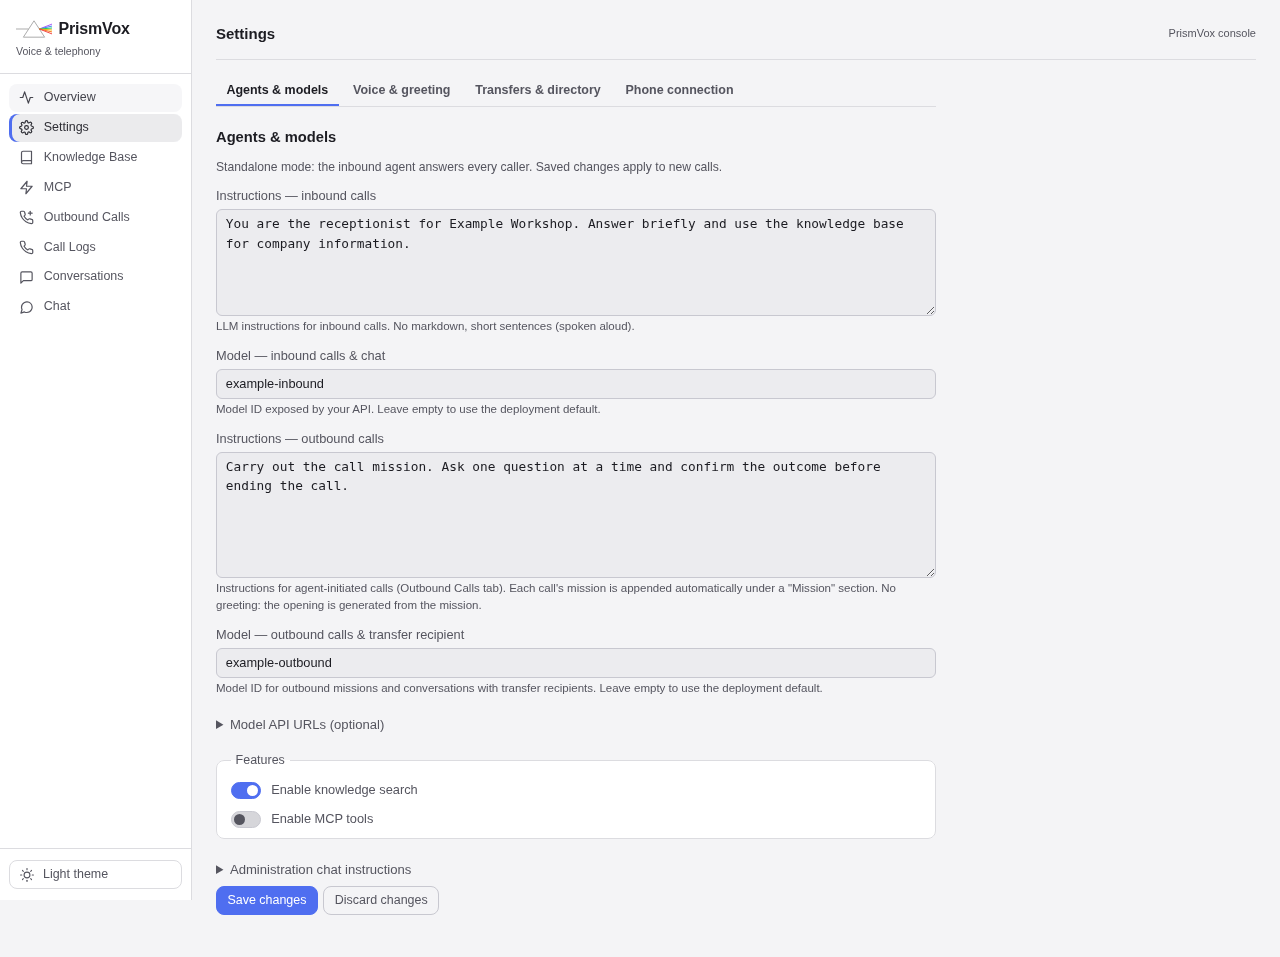
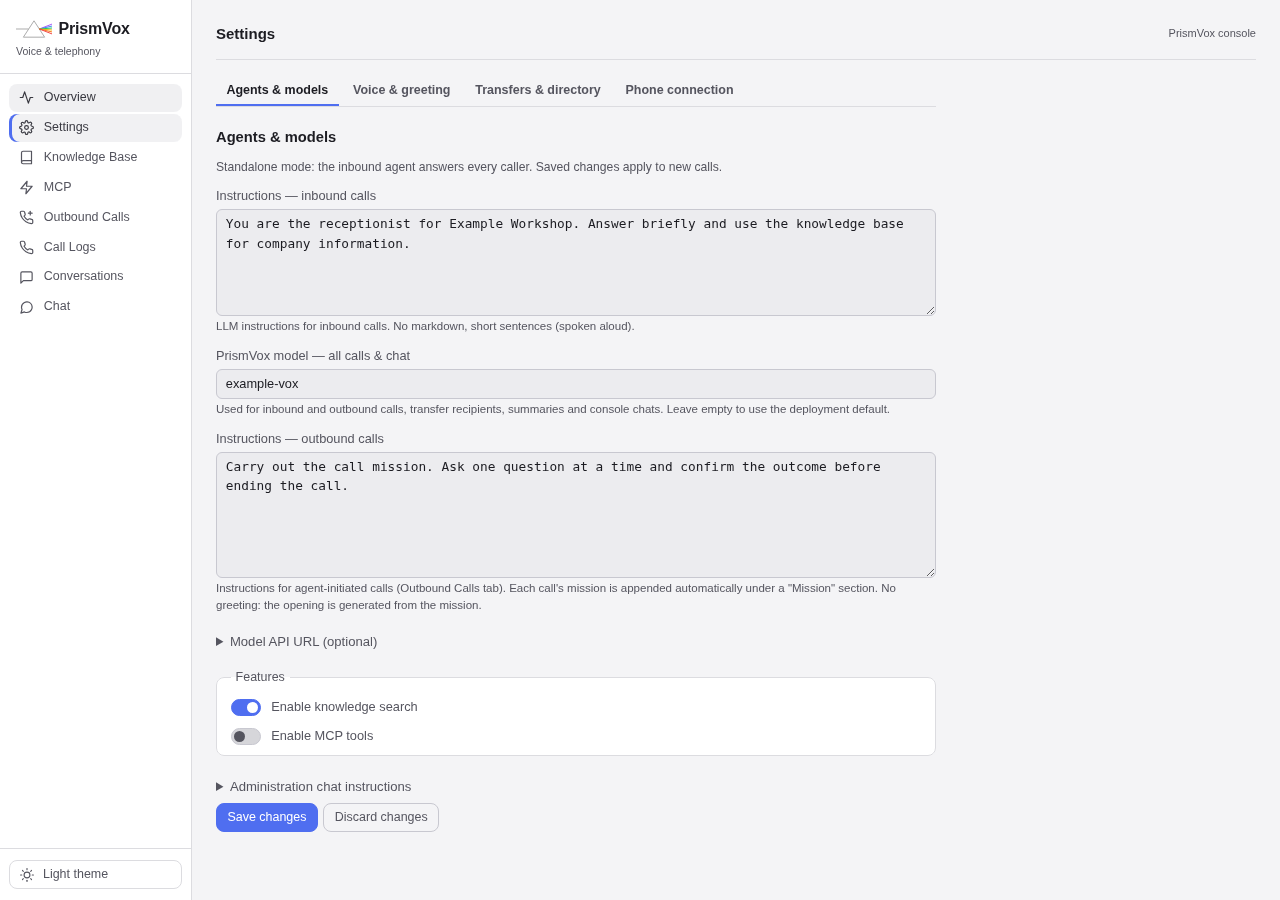
Use one shared Vox model for calls and console conversations

diff --git a/ui/app/static/index.html b/ui/app/static/index.html
@@ -242,9 +242,9 @@
       <small class="hint">LLM instructions for inbound calls. No markdown, short sentences (spoken aloud).</small>
     </label>
     <label>
-        Model — inbound calls &amp; chat
+        PrismVox model — all calls &amp; chat
         <input type="text" id="cfg-llm_model_standard" placeholder="Model ID from your API">
-        <small class="hint">Model ID exposed by your API. Leave empty to use the deployment default.</small>
+        <small class="hint">Used for inbound and outbound calls, transfer recipients, summaries and console chats. Leave empty to use the deployment default.</small>
       </label>
 
     <label>
@@ -252,15 +252,10 @@
       <textarea id="cfg-outbound_system_prompt" rows="6"></textarea>
       <small class="hint">Instructions for agent-initiated calls (Outbound Calls tab). Each call's mission is appended automatically under a "Mission" section. No greeting: the opening is generated from the mission.</small>
     </label>
-    <label>
-        Model — outbound calls &amp; transfer recipient
-        <input type="text" id="cfg-llm_model_oncall" placeholder="Model ID from your API">
-        <small class="hint">Model ID for outbound missions and conversations with transfer recipients. Leave empty to use the deployment default.</small>
-      </label>
 
-    <details style="margin-bottom:10px"><summary>Model API URLs (optional)</summary>
-      <label>Inbound model API root<input type="url" id="cfg-llm_url_standard" placeholder="Empty = deployment gateway"></label>
-      <label>Outbound model API root<input type="url" id="cfg-llm_url_oncall" placeholder="Empty = deployment gateway"></label>
+
+    <details style="margin-bottom:10px"><summary>Model API URL (optional)</summary>
+      <label>Model API root<input type="url" id="cfg-llm_url_standard" placeholder="Empty = deployment gateway"></label>
       <small class="hint">Include /v1. Separate endpoints receive no deployment gateway API key.</small>
     </details>
 
@@ -907,8 +902,6 @@ async function loadConfig(root = document) {
   setText('cfg-outbound_system_prompt', cfg.outbound_system_prompt || '');
   setText('cfg-llm_model_standard', cfg.llm_model_standard || '');
   setText('cfg-llm_url_standard', cfg.llm_url_standard || '');
-  setText('cfg-llm_url_oncall', cfg.llm_url_oncall || '');
-  setText('cfg-llm_model_oncall', cfg.llm_model_oncall || '');
   setText('cfg-transfer_dialog_turns', cfg.transfer_dialog_turns || '');
   setText('cfg-admin_chat_prompt', cfg.admin_chat_prompt || '');
   PHRASE_KEYS.forEach(k => setText('cfg-' + k, cfg[k] || ''));

diff --git a/ui/app/main.py b/ui/app/main.py
@@ -68,28 +68,23 @@ def _llm_headers() -> dict:
     return {"Authorization": f"Bearer {LLM_API_KEY}"} if LLM_API_KEY else {}
 
 
-async def _model_for(pool, tier: str) -> str:
-    """Resolve the configured model for a tier ('standard'|'oncall');
-    falls back to the OPENAI_MODEL env default."""
+async def _model_for(pool) -> str:
+    """Resolve the shared Vox model, retaining the existing inbound setting."""
     try:
-        v = await pool.fetchval("SELECT value FROM config WHERE key=$1", f"llm_model_{tier}")
-        if v:
-            return v
+        v = await pool.fetchval("SELECT value FROM config WHERE key=$1", "llm_model_standard")
+        if v and v.strip():
+            return v.strip()
     except Exception:
         pass
     return LLM_MODEL
 
 
-async def _backend_for(pool, tier):
-    override = await pool.fetchval("SELECT value FROM config WHERE key=$1", f"llm_url_{tier}")
+async def _backend_for(pool):
+    override = await pool.fetchval("SELECT value FROM config WHERE key=$1", "llm_url_standard")
     endpoint = (override or '').strip().rstrip('/') or LLM_BASE_URL.rstrip('/')
-    # A per-tier local service must never receive the deployment gateway's key.
+    # A local service must never receive the deployment gateway's key.
     return endpoint, _llm_headers() if endpoint == LLM_BASE_URL.rstrip('/') else {}
 
-
-async def _backend_for_model(pool, model):
-    standard, oncall = await _model_for(pool, 'standard'), await _model_for(pool, 'oncall')
-    return await _backend_for(pool, 'oncall' if model == oncall and model != standard else 'standard')
 
 
 LLM_MODEL    = os.getenv("OPENAI_MODEL") or os.getenv("LLM_MODEL") or "Qwen/Qwen2.5-7B-Instruct"
@@ -343,7 +338,7 @@ voice_config.install(app, _pool_or_error)
 async def get_config():
     pool = _pool_or_error()
     rows = await pool.fetch("SELECT key, value FROM config ORDER BY key")
-    return _redact({r["key"]: r["value"] for r in rows})
+    return _redact({r["key"]: r["value"] for r in rows if r["key"] not in {"llm_model_oncall", "llm_url_oncall"}})
 
 
 class ConfigUpdate(BaseModel):
@@ -355,8 +350,10 @@ async def update_config(body: ConfigUpdate):
     pool = _pool_or_error()
     # The generic config form never carries secrets (they are redacted on read, so
     # it would round-trip a blank and wipe them). Secrets are set via PUT /api/sip.
+    if {"llm_model_oncall", "llm_url_oncall"} & body.values.keys():
+        raise HTTPException(400, 'Vox uses one model. Use llm_model_standard and llm_url_standard.')
     values = {k: v for k, v in body.values.items() if k not in SECRET_KEYS and k not in voice_config.KEYS}
-    for key in ('llm_url_standard','llm_url_oncall'):
+    for key in ('llm_url_standard',):
         if values.get(key, '').strip():
             parsed = urlparse(values[key].strip())
             if parsed.scheme not in ('http','https') or not parsed.hostname or parsed.username or parsed.password or parsed.query or parsed.fragment:
@@ -381,14 +378,12 @@ async def update_config(body: ConfigUpdate):
 # the rendered file from env on first boot; from then on the UI owns it.
 
 async def _seed_llm_config(pool: asyncpg.Pool) -> None:
-    """Seed the two-tier LLM model aliases on first run (never overwrites).
-    standard = inbound switchboard (fast, caller experience);
-    oncall   = agent-originated missions (capable, MCP checks)."""
+    """Seed the shared Vox model without overwriting the existing inbound choice.
+    Legacy oncall rows remain stored for rollback, but are no longer used."""
     try:
         async with pool.acquire() as conn:
             async with conn.transaction():
-                for key, val in (("llm_model_standard", LLM_MODEL),
-                                 ("llm_model_oncall", LLM_MODEL)):
+                for key, val in (("llm_model_standard", LLM_MODEL),):
                     await conn.execute(
                         """INSERT INTO config (key, value, updated_at)
                            VALUES ($1, $2, NOW())
@@ -1059,11 +1054,12 @@ async def health():
     except Exception:
         results.update(tts="error", stt="error")
 
-    # LLM gateway — /health sits at the host root, outside /v1
-    results["llm"] = await _http_health(f"{LLM_ROOT_URL}/health")
-
-    # Model name for UI display
-    results["model"] = LLM_MODEL.split("/")[-1]
+    try:
+        endpoint, _ = await _backend_for(_pool_or_error())
+        results["llm"] = await _http_health(endpoint.removesuffix('/v1') + '/health')
+        results["model"] = await _model_for(_pool_or_error())
+    except Exception:
+        results["llm"] = "error"
 
     return results
 
@@ -1394,12 +1390,12 @@ async def chat(body: ChatMessage):
     messages = [{"role": "system", "content": sess["system"]}] + sess["history"]
 
     try:
-        backend_url, backend_headers = await _backend_for(pool, "oncall")
+        backend_url, backend_headers = await _backend_for(pool)
         async with aiohttp.ClientSession() as s:
             async with s.post(
                 f"{backend_url}/chat/completions",
                 json={
-                    "model":       await _model_for(pool, "oncall"),
+                    "model":       await _model_for(pool),
                     "messages":    messages,
                     "temperature": 0.7,
                     "max_tokens":  512,
@@ -1744,8 +1740,8 @@ async def agent_chat(body: AgentChatMessage):
 
         tool_trace: list[dict] = []
         reply = ""
-        model = await _model_for(pool, "standard")
-        backend_url, backend_headers = await _backend_for(pool, "standard")
+        model = await _model_for(pool)
+        backend_url, backend_headers = await _backend_for(pool)
         try:
             for _ in range(5):  # bounded tool loop
                 payload = {
@@ -1847,11 +1843,11 @@ async def _build_agent_messages(pool: asyncpg.Pool, client_messages: list[dict])
 async def _agent_run_tool_loop(messages: list[dict], tools: list, routing: dict,
                                model: str = "") -> str:
     """Bounded tool loop (mirror of /api/agent-chat). Returns the final reply text."""
-    backend_url, backend_headers = await _backend_for_model(_pool_or_error(), model)
+    backend_url, backend_headers = await _backend_for(_pool_or_error())
     reply = ""
     for _ in range(5):
         payload = {
-            "model":                model or LLM_MODEL,
+            "model":                model or await _model_for(_pool_or_error()),
             "messages":             messages,
             "temperature":          0.7,
             "max_tokens":           512,
@@ -1899,9 +1895,9 @@ async def _agent_run_tool_loop(messages: list[dict], tools: list, routing: dict,
 
 async def _sglang_stream(messages: list[dict], model: str = ""):
     """Relay SGLang content deltas (genuine token streaming, no tools)."""
-    backend_url, backend_headers = await _backend_for_model(_pool_or_error(), model)
+    backend_url, backend_headers = await _backend_for(_pool_or_error())
     payload = {
-        "model":                model or LLM_MODEL,
+        "model":                model or await _model_for(_pool_or_error()),
         "messages":             messages,
         "temperature":          0.7,
         "max_tokens":           512,
@@ -1961,7 +1957,7 @@ class OpenAIChatRequest(BaseModel):
 async def openai_models():
     """Minimal model list — some OpenAI clients probe this before chatting."""
     return {"object": "list", "data": [
-        {"id": LLM_MODEL, "object": "model", "created": 0, "owned_by": "phoneagent"},
+        {"id": await _model_for(_pool_or_error()), "object": "model", "created": 0, "owned_by": "phoneagent"},
     ]}
 
 
@@ -1983,7 +1979,9 @@ async def openai_chat_completions(body: OpenAIChatRequest):
 
     cid     = "chatcmpl-" + _uuid.uuid4().hex
     created = int(time.time())
-    model   = body.model or await _model_for(pool, "standard")
+    model   = await _model_for(pool)
+    if body.model and body.model != model:
+        raise HTTPException(400, "Unknown model. Use the PrismVox model listed by /v1/models.")
 
     if not body.stream:
         try:
@@ -2094,13 +2092,14 @@ async def voice_test(
     )
 
     try:
+        backend_url, backend_headers = await _backend_for(pool)
         async with aiohttp.ClientSession() as s:
             async with s.post(
-                f"{LLM_BASE_URL}/chat/completions",
-                json={"model": LLM_MODEL, "messages": messages,
+                f"{backend_url}/chat/completions",
+                json={"model": await _model_for(pool), "messages": messages,
                       "temperature": 1.0, "top_p": 0.95, "max_tokens": 256,
                       "chat_template_kwargs": {"enable_thinking": False}},
-                headers=_llm_headers(),
+                headers=backend_headers,
                 timeout=aiohttp.ClientTimeout(total=60),
             ) as r:
                 r.raise_for_status()

diff --git a/ui/tests/test_voice.py b/ui/tests/test_voice.py
@@ -229,18 +229,34 @@ class AudioConversionTests(unittest.IsolatedAsyncioTestCase):
 
 
 
-class ModelTierTests(unittest.IsolatedAsyncioTestCase):
+class SharedModelTests(unittest.IsolatedAsyncioTestCase):
+    async def test_config_hides_retired_choice_and_model_catalog_uses_shared_model(self):
+        app=load_app()
+        app._pool=AsyncMock()
+        app._pool.fetch.return_value=[{'key':'llm_model_standard','value':'shared'}, {'key':'llm_model_oncall','value':'retired'}, {'key':'llm_url_oncall','value':'http://retired.invalid/v1'}]
+        app._pool.fetchval.return_value='shared'
+        self.assertEqual((await app.openai_models())['data'][0]['id'],'shared')
+        config=await app.get_config()
+        self.assertEqual(config['llm_model_standard'],'shared')
+        self.assertNotIn('llm_model_oncall',config)
+        self.assertNotIn('llm_url_oncall',config)
+        with self.assertRaises(app.HTTPException):
+            await app.update_config(app.ConfigUpdate(values={'llm_model_oncall':'retired'}))
+        app._pool.acquire.assert_not_called()
+
     async def test_local_standard_keeps_gateway_credentials_isolated(self):
         app=load_app();app.LLM_BASE_URL='http://gateway.invalid/v1';app.LLM_API_KEY='private-gateway-fixture'
         cfg={'llm_url_standard':'http://fast-llm:8080/v1','llm_model_standard':'fast','llm_model_oncall':'heavy'}
         class Pool:
             async def fetchval(self,sql,key):return cfg.get(key)
         pool=Pool()
-        self.assertEqual(await app._backend_for_model(pool,'fast'),('http://fast-llm:8080/v1',{}))
-        self.assertEqual(await app._backend_for_model(pool,'heavy'),('http://gateway.invalid/v1',{'Authorization':'Bearer private-gateway-fixture'}))
+        self.assertEqual(await app._backend_for(pool),('http://fast-llm:8080/v1',{}))
+        self.assertEqual(await app._model_for(pool),'fast')
 
+        cfg['llm_model_standard']=''
+        self.assertEqual(await app._model_for(pool),app.LLM_MODEL)
         cfg['llm_url_standard']='   '
-        self.assertEqual(await app._backend_for(pool,'standard'),('http://gateway.invalid/v1',{'Authorization':'Bearer private-gateway-fixture'}))
+        self.assertEqual(await app._backend_for(pool),('http://gateway.invalid/v1',{'Authorization':'Bearer private-gateway-fixture'}))
 
     async def test_text_stream_and_tool_loop_use_selected_backend(self):
         app=load_app();app.LLM_API_KEY='private-gateway-fixture'

diff --git a/agent/internal/llm/tier_test.go b/agent/internal/llm/tier_test.go
@@ -2,27 +2,27 @@ package llm
 
 import "testing"
 
-func TestTierEndpointIsolationAndOncallFallback(t *testing.T) {
+func TestUnifiedModelIgnoresRetiredOncallAndPreservesCredentials(t *testing.T) {
 	t.Setenv("OPENAI_BASE_URL", "http://gateway.invalid/v1")
 	t.Setenv("OPENAI_API_KEY", "gateway-private-fixture")
 	t.Setenv("OPENAI_MODEL", "heavy")
 	c := New()
 	c.Caller = "fixture-caller"
-	cfg := map[string]string{"llm_url_standard": "http://fast-llm:8080/v1/", "llm_model_standard": "fast", "llm_model_oncall": "heavy"}
-	if err := c.ConfigureTier(cfg, "standard"); err != nil {
+	cfg := map[string]string{"llm_url_standard": "http://fast-llm:8080/v1/", "llm_model_standard": "fast", "llm_model_oncall": "heavy", "llm_url_oncall": "http://retired.invalid/v1"}
+	if err := c.Configure(cfg); err != nil {
 		t.Fatal(err)
 	}
 	if c.URL != "http://fast-llm:8080/v1" || c.Model != "fast" || c.APIKey != "" || c.Caller != "fixture-caller" {
 		t.Fatal("standard endpoint inherited a gateway key or lost caller identity")
 	}
-	if err := c.ConfigureTier(cfg, "oncall"); err != nil {
+	if err := c.Configure(map[string]string{}); err != nil {
 		t.Fatal(err)
 	}
 	if c.URL != "http://gateway.invalid/v1" || c.Model != "heavy" || c.APIKey != "gateway-private-fixture" {
-		t.Fatal("on-call did not retain deployment provider")
+		t.Fatal("empty configuration did not retain deployment provider")
 	}
 	cfg["llm_url_standard"] = "http://user:secret@elsewhere.invalid/v1"
-	if err := c.ConfigureTier(cfg, "standard"); err == nil {
+	if err := c.Configure(cfg); err == nil {
 		t.Fatal("embedded credentials accepted")
 	}
 }

diff --git a/agent/internal/call/handler.go b/agent/internal/call/handler.go
@@ -397,16 +397,9 @@ func (h *Handler) Run(ctx context.Context) {
 	h.ttsClient.SpellWords = cfg.Get("tts_spell_words")
 	h.ttsClient.SpellExceptions = cfg.Get("tts_spell_exceptions")
 
-	// Two-tier LLM (UI → Configuration → Agent): inbound switchboard answers with
-	// a small fast model (caller experience first), agent-originated on-call
-	// missions get a larger one (capability first — colleagues tolerate a slower
-	// pace). Both are aliases on the same OpenAI-compatible endpoint (LiteLLM);
-	// an empty key keeps the OPENAI_MODEL env default.
-	tier := "standard"
-	if h.task != nil {
-		tier = "oncall"
-	}
-	if err := h.llmClient.ConfigureTier(cfg.Raw, tier); err != nil {
+	// One Vox model for all local conversations; recognized callers route to Prism.
+
+	if err := h.llmClient.Configure(cfg.Raw); err != nil {
 		log.Printf("[%s] Model configuration unavailable: %v", h.channelID, err)
 		return
 	}
@@ -1822,7 +1815,7 @@ func (h *Handler) attendedTransferInner(
 	// agent-originated missions). A copy keeps the caller-facing client untouched
 	// (the announcement generator may still be using it concurrently).
 	recipientClient := *h.llmClient
-	if err := recipientClient.ConfigureTier(cfg.Raw, "oncall"); err != nil {
+	if err := recipientClient.Configure(cfg.Raw); err != nil {
 		log.Printf("[%s] Recipient model configuration unavailable: %v", h.channelID, err)
 		return "no_response"
 	}

diff --git a/agent/internal/llm/tier.go b/agent/internal/llm/tier.go
@@ -6,18 +6,19 @@ import (
 	"strings"
 )
 
-// ConfigureTier keeps the deployment gateway as the default and optionally uses
-// a different API root per tier. Never forward a gateway key to another endpoint.
-func (c *Client) ConfigureTier(raw map[string]string, tier string) error {
+// Configure uses one Vox model for incoming/outgoing calls and auxiliary tasks.
+// The existing standard keys remain canonical so upgrades preserve the inbound
+// endpoint/model pair. Never forward a gateway key to another endpoint.
+func (c *Client) Configure(raw map[string]string) error {
 	base := New()
 	c.URL, c.APIKey, c.Model = base.URL, base.APIKey, base.Model
-	if model := strings.TrimSpace(raw["llm_model_"+tier]); model != "" {
+	if model := strings.TrimSpace(raw["llm_model_standard"]); model != "" {
 		c.Model = model
 	}
-	if endpoint := strings.TrimRight(strings.TrimSpace(raw["llm_url_"+tier]), "/"); endpoint != "" {
+	if endpoint := strings.TrimRight(strings.TrimSpace(raw["llm_url_standard"]), "/"); endpoint != "" {
 		u, err := url.Parse(endpoint)
 		if err != nil || (u.Scheme != "http" && u.Scheme != "https") || u.Host == "" || u.User != nil || u.RawQuery != "" || u.Fragment != "" {
-			return fmt.Errorf("invalid %s model API URL", tier)
+			return fmt.Errorf("invalid Vox model API URL")
 		}
 		if endpoint != strings.TrimRight(c.URL, "/") {
 			c.APIKey = ""

diff --git a/README.md b/README.md
@@ -137,7 +137,7 @@ For OpenAI-compatible services, manage voice uploads/deletion on the speech serv
 | Console page | What you configure or inspect |
 | --- | --- |
 | Overview | SIP status, active calls and aggregate call activity |
-| Settings → Agents & models | Inbound/outbound instructions, models and knowledge/MCP switches |
+| Settings → Agents & models | Shared Vox model, separate inbound/outbound instructions and knowledge/MCP switches |
 | Settings → Voice & greeting | Greeting, voice, speech providers, spoken phrases and pronunciation |
 | Settings → Transfers & directory | Contacts, blind/attended transfer preferences and recipient dialogue limit |
 | Settings → Phone connection | Trunk, TLS/UDP transport and transfer method |
@@ -152,10 +152,15 @@ message or hang-up tool. Keep the persona concise and give it a knowledge base
 for company-specific facts. Start with a few test calls before connecting a
 production number.
 
-Incoming switchboard calls use the **standard** model. Outbound missions,
-transfer-recipient conversations and operator chat use the **on-call** model.
-Each can use a separate API URL; leaving it empty uses `OPENAI_BASE_URL`.
+PrismVox uses **one model** for incoming unknown callers, outbound missions,
+transfer recipients, summaries and console chats. Configure it in
+**Settings → Agents & models → PrismVox model — all calls & chat**. The
+optional API URL applies to all these uses; an empty URL uses `OPENAI_BASE_URL`.
 Gateway credentials are not forwarded to a different model endpoint.
+
+When upgrading, the existing inbound model and endpoint become the shared Vox
+configuration. Previous outbound overrides are no longer used. Inbound and
+outbound instructions remain separate.
 
 ### Saving settings
 
@@ -188,7 +193,8 @@ standard project name, that network is `prismvox_agentnet`.
 - **Prism → Admin → Telephony → Agents & models → Conversation model — recognised callers**
   selects the model for recognized callers. An empty selection follows the Prism
   deployment default; the web default is unchanged. Unknown callers and outbound
-  missions have separate Vox model fields in the same section.
+  missions share the **PrismVox model — unknown callers & outbound calls** in
+  the same section. Its endpoint is independent of the Prism model catalogue.
 
 The connected **Telephony** page groups settings into **Agents & models**,
 **Voice & greeting**, **Transfers & directories** and **Phone connection**.
